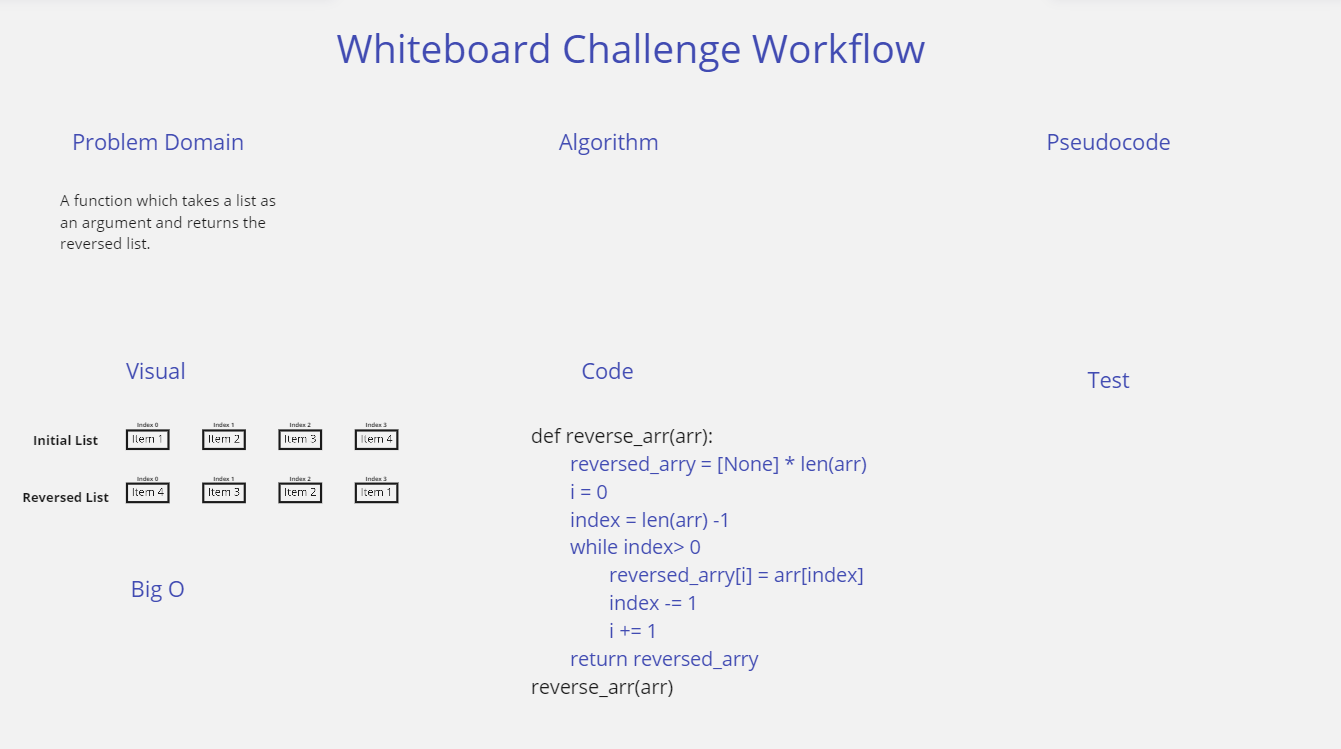
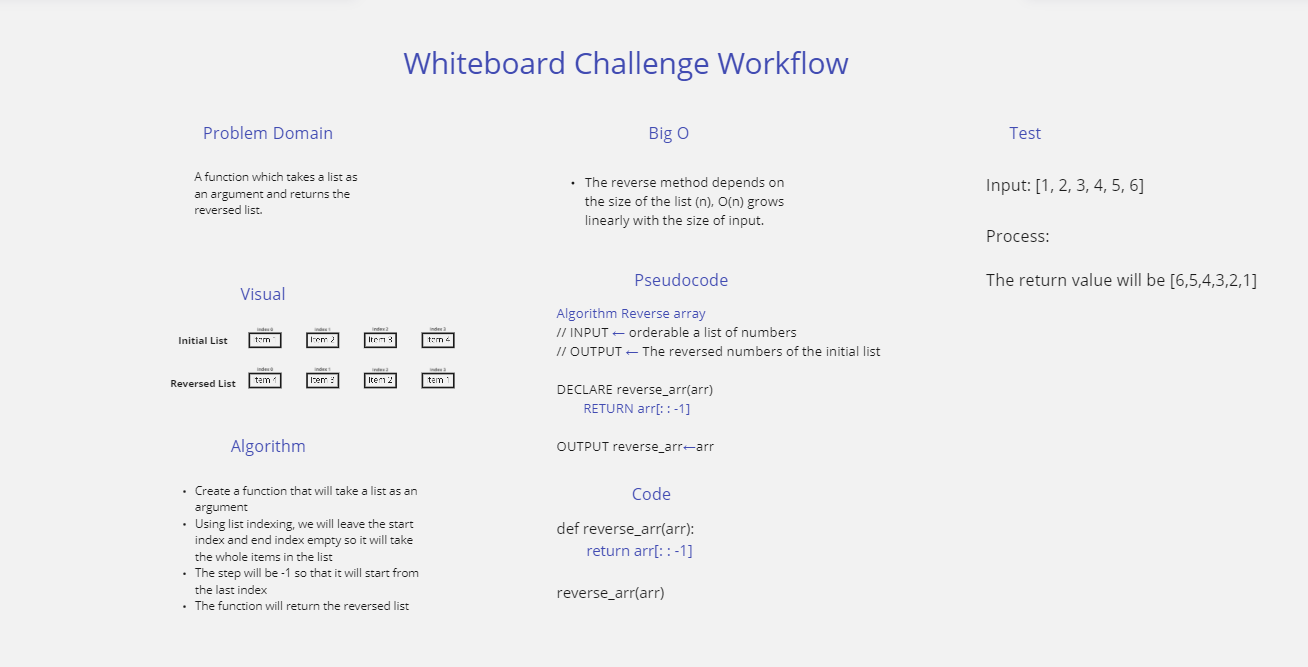
finished

diff --git a/array-reverse/array_reverse.md b/array-reverse/array_reverse.md
@@ -14,3 +14,9 @@ A function which takes a list as an argument and returns the reversed list.
 
 
 ## Approach & Efficiency
+
+### Approach:
+- Create a function that will take a list as an argument
+- Using list indexing, we will leave the start index and end index empty so it will take the whole items in the list
+- The step will be -1 so that it will start from the last index 
+- The function will return the reversed list
